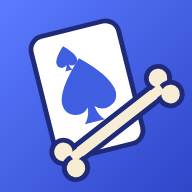
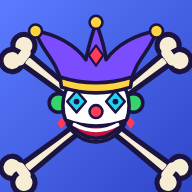
Add files via upload

diff --git a/index.html b/index.html
@@ -10,8 +10,8 @@
 <meta name="apple-mobile-web-app-capable" content="yes">
 <meta name="apple-mobile-web-app-title" content="Sambung Tulang">
 <link rel="manifest" href="manifest.webmanifest">
-<link rel="icon" type="image/png" href="icon-192.png?v=4">
-<link rel="apple-touch-icon" href="icon-192.png?v=4">
+<link rel="icon" type="image/png" href="icon-192.png?v=8">
+<link rel="apple-touch-icon" href="icon-192.png?v=8">
 <link rel="preconnect" href="https://fonts.googleapis.com">
 <link rel="preconnect" href="https://fonts.gstatic.com" crossorigin>
 <link href="https://fonts.googleapis.com/css2?family=Outfit:wght@500;600;700&family=Plus+Jakarta+Sans:wght@400;500;600;700&display=swap" rel="stylesheet">
@@ -54,8 +54,8 @@
   --danger: #a3294a;
   --sh: 36, 48, 120;
   --wall: linear-gradient(160deg, #f2f0eb 0%, #e5e2dc 100%);
-  --wall-op: .6;
-  --doodle: #6a665d; --cf: #f8f6f1; --acc: #d9776a; --dot: rgba(60, 55, 45, .09);
+  --wall-op: .55;
+  --doodle: #5f5b53; --cf: #ffffff; --acc: #d4524a; --dot: rgba(60, 55, 45, .09);
   --f-display: "Outfit", "Segoe UI", system-ui, sans-serif;
   --f-body: "Plus Jakarta Sans", "Segoe UI", system-ui, -apple-system, sans-serif;
   color-scheme: light;
@@ -81,9 +81,9 @@
     --line-strong: rgba(150, 165, 255, .32);
     --danger: #ff93a9;
     --sh: 0, 0, 0;
-    --wall: linear-gradient(160deg, #1d1d22 0%, #121215 100%);
-    --wall-op: .5;
-    --doodle: #bcb8ab; --cf: #25252b; --acc: #e08a7e; --dot: rgba(255, 255, 255, .06);
+    --wall: linear-gradient(160deg, #101013 0%, #060607 100%);
+    --wall-op: .34;
+    --doodle: #23232a; --cf: #ebe9e3; --acc: #e0574f; --dot: rgba(255, 255, 255, .06);
     color-scheme: dark;
   }
 }
@@ -107,9 +107,9 @@
   --line-strong: rgba(150, 165, 255, .32);
   --danger: #ff93a9;
   --sh: 0, 0, 0;
-  --wall: linear-gradient(160deg, #1d1d22 0%, #121215 100%);
-  --wall-op: .5;
-  --doodle: #bcb8ab; --cf: #25252b; --acc: #e08a7e; --dot: rgba(255, 255, 255, .06);
+  --wall: linear-gradient(160deg, #101013 0%, #060607 100%);
+  --wall-op: .34;
+  --doodle: #23232a; --cf: #ebe9e3; --acc: #e0574f; --dot: rgba(255, 255, 255, .06);
   color-scheme: dark;
 }
 
@@ -511,40 +511,68 @@ details[open].card > summary::after { transform: rotate(-135deg); }
   <path d="M50 20V32M30 30L36 36M70 30L64 36M20 60H30M70 60H80" stroke-width="2.5"/>
   <path d="M91 131L86 117M81 131L86 117" stroke-width="0"/>
 </g></symbol>
-</defs></svg>
-
+<symbol id="cS5" viewBox="0 0 100 140"><g class="dl"><rect class="dc" x="3" y="3" width="94" height="134" rx="10"/><use href="#sp" class="ds" x="8" y="9" width="11" height="11"/><use href="#sp" class="ds" x="19" y="27" width="22" height="22"/><use href="#sp" class="ds" x="59" y="27" width="22" height="22"/><use href="#sp" class="ds" x="39" y="59" width="22" height="22"/><use href="#sp" class="ds" x="19" y="91" width="22" height="22"/><use href="#sp" class="ds" x="59" y="91" width="22" height="22"/></g></symbol><symbol id="cH8" viewBox="0 0 100 140"><g class="dl"><rect class="dc" x="3" y="3" width="94" height="134" rx="10"/><use href="#ht" class="ds da" x="8" y="9" width="11" height="11"/><use href="#ht" class="ds da" x="19" y="21" width="22" height="22"/><use href="#ht" class="ds da" x="59" y="21" width="22" height="22"/><use href="#ht" class="ds da" x="19" y="47" width="22" height="22"/><use href="#ht" class="ds da" x="59" y="47" width="22" height="22"/><use href="#ht" class="ds da" x="19" y="73" width="22" height="22"/><use href="#ht" class="ds da" x="59" y="73" width="22" height="22"/><use href="#ht" class="ds da" x="19" y="99" width="22" height="22"/><use href="#ht" class="ds da" x="59" y="99" width="22" height="22"/></g></symbol><symbol id="cD5" viewBox="0 0 100 140"><g class="dl"><rect class="dc" x="3" y="3" width="94" height="134" rx="10"/><use href="#dm" class="ds da" x="8" y="9" width="11" height="11"/><use href="#dm" class="ds da" x="19" y="27" width="22" height="22"/><use href="#dm" class="ds da" x="59" y="27" width="22" height="22"/><use href="#dm" class="ds da" x="39" y="59" width="22" height="22"/><use href="#dm" class="ds da" x="19" y="91" width="22" height="22"/><use href="#dm" class="ds da" x="59" y="91" width="22" height="22"/></g></symbol><symbol id="cC8" viewBox="0 0 100 140"><g class="dl"><rect class="dc" x="3" y="3" width="94" height="134" rx="10"/><use href="#cl" class="ds" x="8" y="9" width="11" height="11"/><use href="#cl" class="ds" x="19" y="21" width="22" height="22"/><use href="#cl" class="ds" x="59" y="21" width="22" height="22"/><use href="#cl" class="ds" x="19" y="47" width="22" height="22"/><use href="#cl" class="ds" x="59" y="47" width="22" height="22"/><use href="#cl" class="ds" x="19" y="73" width="22" height="22"/><use href="#cl" class="ds" x="59" y="73" width="22" height="22"/><use href="#cl" class="ds" x="19" y="99" width="22" height="22"/><use href="#cl" class="ds" x="59" y="99" width="22" height="22"/></g></symbol></defs></svg>
 <div class="wall wp" aria-hidden="true"><svg viewBox="0 0 400 800" preserveAspectRatio="xMidYMid slice">
-  <use href="#dK" x="-8" y="250" width="66" height="92" transform="rotate(-9 25 296)"/>
-  <use href="#dQ" x="338" y="150" width="62" height="87" transform="rotate(8 369 193)"/>
-  <use href="#dX" x="330" y="470" width="66" height="92" transform="rotate(-7 363 516)"/>
-  <use href="#dJ" x="-6" y="560" width="64" height="90" transform="rotate(8 26 605)"/>
-  <use href="#dA" x="332" y="690" width="64" height="90" transform="rotate(-10 364 735)"/>
-  <g class="dg">
-    <use href="#sp" x="120" y="30" width="14" height="14"/><use href="#ht" x="290" y="60" width="14" height="14" class="da"/>
-    <use href="#dm" x="40" y="440" width="13" height="13" class="da"/><use href="#cl" x="360" y="380" width="14" height="14"/>
-    <use href="#ht" x="60" y="720" width="13" height="13" class="da"/><use href="#sp" x="200" y="770" width="13" height="13"/><use href="#dm" x="260" y="740" width="12" height="12" class="da"/><use href="#cl" x="130" y="756" width="13" height="13"/>
-  </g>
+  <use href="#cC8" x="-50" y="-70" width="100" height="140" transform="translate(381 468) rotate(97) skewX(-10) scale(0.62)"/>
+  <use href="#cH8" x="-50" y="-70" width="100" height="140" transform="translate(333 637) rotate(138) skewX(-12) scale(0.62)"/>
+  <use href="#cH8" x="-50" y="-70" width="100" height="140" transform="translate(242 731) rotate(168) skewX(-4) scale(0.62)"/>
+  <use href="#dX" x="-50" y="-70" width="100" height="140" transform="translate(138 720) rotate(187) skewX(0) scale(0.62)"/>
+  <use href="#cD5" x="-50" y="-70" width="100" height="140" transform="translate(53 608) rotate(219) skewX(-2) scale(0.62)"/>
+  <use href="#dK" x="-50" y="-70" width="100" height="140" transform="translate(16 429) rotate(253) skewX(-11) scale(0.62)"/>
+  <use href="#dQ" x="-50" y="-70" width="100" height="140" transform="translate(36 241) rotate(296) skewX(9) scale(0.62)"/>
+  <use href="#dJ" x="-50" y="-70" width="100" height="140" transform="translate(109 104) rotate(320) skewX(-8) scale(0.62)"/>
+  <use href="#cS5" x="-50" y="-70" width="100" height="140" transform="translate(211 61) rotate(367) skewX(13) scale(0.62)"/>
+  <use href="#dA" x="-50" y="-70" width="100" height="140" transform="translate(309 125) rotate(398) skewX(-3) scale(0.62)"/>
+  <use href="#cD5" x="-50" y="-70" width="100" height="140" transform="translate(372 277) rotate(442) skewX(-13) scale(0.62)"/>
+  <use href="#dA" x="-50" y="-70" width="100" height="140" transform="translate(270 510) rotate(140) skewX(-8) scale(0.32)"/>
+  <use href="#cD5" x="-50" y="-70" width="100" height="140" transform="translate(198 570) rotate(172) skewX(-14) scale(0.32)"/>
+  <use href="#cS5" x="-50" y="-70" width="100" height="140" transform="translate(127 502) rotate(228) skewX(12) scale(0.32)"/>
+  <use href="#cC8" x="-50" y="-70" width="100" height="140" transform="translate(111 358) rotate(275) skewX(3) scale(0.32)"/>
+  <use href="#cH8" x="-50" y="-70" width="100" height="140" transform="translate(162 245) rotate(340) skewX(-5) scale(0.32)"/>
+  <use href="#cH8" x="-50" y="-70" width="100" height="140" transform="translate(242 249) rotate(389) skewX(-16) scale(0.32)"/>
+  <use href="#dX" x="-50" y="-70" width="100" height="140" transform="translate(290 367) rotate(426) skewX(-11) scale(0.32)"/>
 </svg></div>
 
 <div class="wall wl" aria-hidden="true"><svg viewBox="0 0 1600 900" preserveAspectRatio="xMidYMid slice">
-  <use href="#dK" x="120" y="560" width="96" height="134" transform="rotate(-8 168 627)"/>
-  <use href="#dQ" x="1390" y="90" width="92" height="129" transform="rotate(8 1436 155)"/>
-  <use href="#dX" x="1380" y="640" width="96" height="134" transform="rotate(-7 1428 707)"/>
-  <use href="#dJ" x="140" y="110" width="92" height="129" transform="rotate(7 186 175)"/>
-  <use href="#dA" x="780" y="730" width="92" height="129" transform="rotate(-9 826 795)"/>
-  <g class="dg">
-    <use href="#sp" x="500" y="40" width="22" height="22"/><use href="#ht" x="1100" y="50" width="22" height="22" class="da"/>
-    <use href="#dm" x="200" y="380" width="20" height="20" class="da"/><use href="#cl" x="1400" y="420" width="22" height="22"/>
-    <use href="#ht" x="520" y="860" width="20" height="20" class="da"/><use href="#sp" x="1060" y="860" width="20" height="20"/><use href="#dm" x="300" y="840" width="18" height="18" class="da"/><use href="#cl" x="1250" y="845" width="20" height="20"/>
-  </g>
+  <use href="#dK" x="-50" y="-70" width="100" height="140" transform="translate(1506 524) rotate(107) skewX(-2) scale(0.78)"/>
+  <use href="#dQ" x="-50" y="-70" width="100" height="140" transform="translate(1316 708) rotate(129) skewX(2) scale(0.78)"/>
+  <use href="#dJ" x="-50" y="-70" width="100" height="140" transform="translate(963 810) rotate(166) skewX(-6) scale(0.78)"/>
+  <use href="#cS5" x="-50" y="-70" width="100" height="140" transform="translate(558 798) rotate(208) skewX(6) scale(0.78)"/>
+  <use href="#dA" x="-50" y="-70" width="100" height="140" transform="translate(230 676) rotate(225) skewX(2) scale(0.78)"/>
+  <use href="#cD5" x="-50" y="-70" width="100" height="140" transform="translate(83 482) rotate(266) skewX(11) scale(0.78)"/>
+  <use href="#cS5" x="-50" y="-70" width="100" height="140" transform="translate(163 277) rotate(304) skewX(-6) scale(0.78)"/>
+  <use href="#cC8" x="-50" y="-70" width="100" height="140" transform="translate(446 128) rotate(344) skewX(-11) scale(0.78)"/>
+  <use href="#cH8" x="-50" y="-70" width="100" height="140" transform="translate(841 81) rotate(361) skewX(7) scale(0.78)"/>
+  <use href="#cH8" x="-50" y="-70" width="100" height="140" transform="translate(1223 151) rotate(386) skewX(-0) scale(0.78)"/>
+  <use href="#dX" x="-50" y="-70" width="100" height="140" transform="translate(1471 316) rotate(416) skewX(5) scale(0.78)"/>
+  <use href="#cH8" x="-50" y="-70" width="100" height="140" transform="translate(1052 560) rotate(138) skewX(3) scale(0.4)"/>
+  <use href="#dX" x="-50" y="-70" width="100" height="140" transform="translate(791 620) rotate(192) skewX(-7) scale(0.4)"/>
+  <use href="#cD5" x="-50" y="-70" width="100" height="140" transform="translate(537 552) rotate(238) skewX(3) scale(0.4)"/>
+  <use href="#dK" x="-50" y="-70" width="100" height="140" transform="translate(480 408) rotate(287) skewX(-2) scale(0.4)"/>
+  <use href="#dQ" x="-50" y="-70" width="100" height="140" transform="translate(665 295) rotate(345) skewX(16) scale(0.4)"/>
+  <use href="#dJ" x="-50" y="-70" width="100" height="140" transform="translate(951 299) rotate(387) skewX(6) scale(0.4)"/>
+  <use href="#cS5" x="-50" y="-70" width="100" height="140" transform="translate(1124 417) rotate(426) skewX(7) scale(0.4)"/>
 </svg></div>
+
 <div class="app">
   <p class="credit">Created by @syahruldj__</p>
   <header class="top">
     <div class="brand">
       <span class="logo" aria-hidden="true">
-        <svg viewBox="0 0 64 64"><g transform="translate(29 30) rotate(-14)"><rect x="-15" y="-21" width="30" height="42" rx="4.5" fill="#fff" stroke="#1f2a78" stroke-width="1.6"/><g transform="translate(-9.5 -17) scale(.8)"><path d="M12 2C12 2 4 9 4 14a4 4 0 0 0 7 2.5C10.8 18.5 10 20 9 21h6c-1-1-1.8-2.5-2-4.5a4 4 0 0 0 7-2.5C20 9 12 2 12 2z" fill="#3f5fe0" transform="scale(.55)"/></g><g transform="translate(0 0) scale(1.15)"><path d="M12 2C12 2 4 9 4 14a4 4 0 0 0 7 2.5C10.8 18.5 10 20 9 21h6c-1-1-1.8-2.5-2-4.5a4 4 0 0 0 7-2.5C20 9 12 2 12 2z" transform="translate(-12 -11.5)" fill="#3f5fe0"/></g></g>
-<g transform="translate(39 41) rotate(-38)" stroke="#1f2a78" stroke-width="1.6" stroke-linejoin="round" fill="#f7ecd4"><rect x="-19" y="-2.6" width="38" height="5.2" rx="2.4"/><circle cx="-20" cy="-3.4" r="3.9"/><circle cx="-20" cy="3.4" r="3.9"/><circle cx="20" cy="-3.4" r="3.9"/><circle cx="20" cy="3.4" r="3.9"/><rect x="-19" y="-1.6" width="38" height="3.2" stroke="none"/></g></svg>
+        <svg viewBox="0 0 64 64"><g transform="translate(32 38) rotate(38)" stroke="#1b1340" stroke-linejoin="round" stroke-linecap="round" stroke-width="1.7" fill="#f7ecd4"><path d="M-30 -2.1C-12 -1.2 12 -1.2 30 -2.1L30 2.1C12 1.2 -12 1.2 -30 2.1Z"/><circle cx="-33" cy="-3.2" r="3.7"/><circle cx="-33" cy="3.2" r="3.7"/><circle cx="33" cy="-3.2" r="3.7"/><circle cx="33" cy="3.2" r="3.7"/><path d="M-31 -1.6V1.6M31 -1.6V1.6" stroke="#f7ecd4" stroke-width="3.4"/></g><g transform="translate(32 38) rotate(-38)" stroke="#1b1340" stroke-linejoin="round" stroke-linecap="round" stroke-width="1.7" fill="#f7ecd4"><path d="M-30 -2.1C-12 -1.2 12 -1.2 30 -2.1L30 2.1C12 1.2 -12 1.2 -30 2.1Z"/><circle cx="-33" cy="-3.2" r="3.7"/><circle cx="-33" cy="3.2" r="3.7"/><circle cx="33" cy="-3.2" r="3.7"/><circle cx="33" cy="3.2" r="3.7"/><path d="M-31 -1.6V1.6M31 -1.6V1.6" stroke="#f7ecd4" stroke-width="3.4"/></g><g transform="translate(8 6) scale(.24)"><g stroke="#1b1340" stroke-width="5" stroke-linejoin="round" stroke-linecap="round">
+  <circle cx="48" cy="118" r="13" fill="#34d66b"/><circle cx="152" cy="118" r="13" fill="#34d66b"/>
+  <ellipse cx="100" cy="122" rx="46" ry="50" fill="#fff"/>
+  <path d="M52 90C44 56 24 46 16 18C44 22 72 38 86 58C90 36 96 20 100 6C106 22 112 38 114 58C128 38 156 22 184 18C176 46 156 56 148 90z" fill="#7c4dff"/>
+  <path d="M50 82Q100 98 150 82L148 96Q100 112 52 96z" fill="#ffd23f"/>
+  <path d="M100 38l10 14-10 14-10-14z" fill="#ff3b57" stroke-width="3"/>
+  <circle cx="16" cy="18" r="9" fill="#ffd23f" stroke-width="3.5"/><circle cx="100" cy="6" r="9" fill="#ffd23f" stroke-width="3.5"/><circle cx="184" cy="18" r="9" fill="#ffd23f" stroke-width="3.5"/>
+  <path d="M60 116l13-15 13 15-13 15z" fill="#22d3ee" stroke-width="3.5"/><path d="M114 116l13-15 13 15-13 15z" fill="#22d3ee" stroke-width="3.5"/>
+  <circle cx="73" cy="116" r="4" fill="#1b1340" stroke="none"/><circle cx="127" cy="116" r="4" fill="#1b1340" stroke="none"/>
+  <circle cx="100" cy="130" r="9" fill="#ff3b57" stroke-width="3.5"/>
+  <path d="M58 142Q100 192 142 142Q100 158 58 142z" fill="#c2123a"/>
+  <path d="M70 148Q100 164 130 148" stroke="#fff" stroke-width="5" fill="none"/>
+  <path d="M52 138l6 8-6 8-6-8z" fill="#ff3b57" stroke="none"/><path d="M148 138l6 8-6 8-6-8z" fill="#ff3b57" stroke="none"/>
+</g></g></svg>
       </span>
       <div>
         <h1>Sambung Tulang</h1>

diff --git a/sw.js b/sw.js
@@ -1,4 +1,4 @@
-const CACHE = 'sambung-tulang-v7';
+const CACHE = 'sambung-tulang-v8';
 const FILES = ['./', 'index.html', 'manifest.webmanifest', 'icon-192.png', 'icon-512.png'];
 self.addEventListener('install', e => {
   e.waitUntil(caches.open(CACHE).then(c => c.addAll(FILES)).then(() => self.skipWaiting()));
